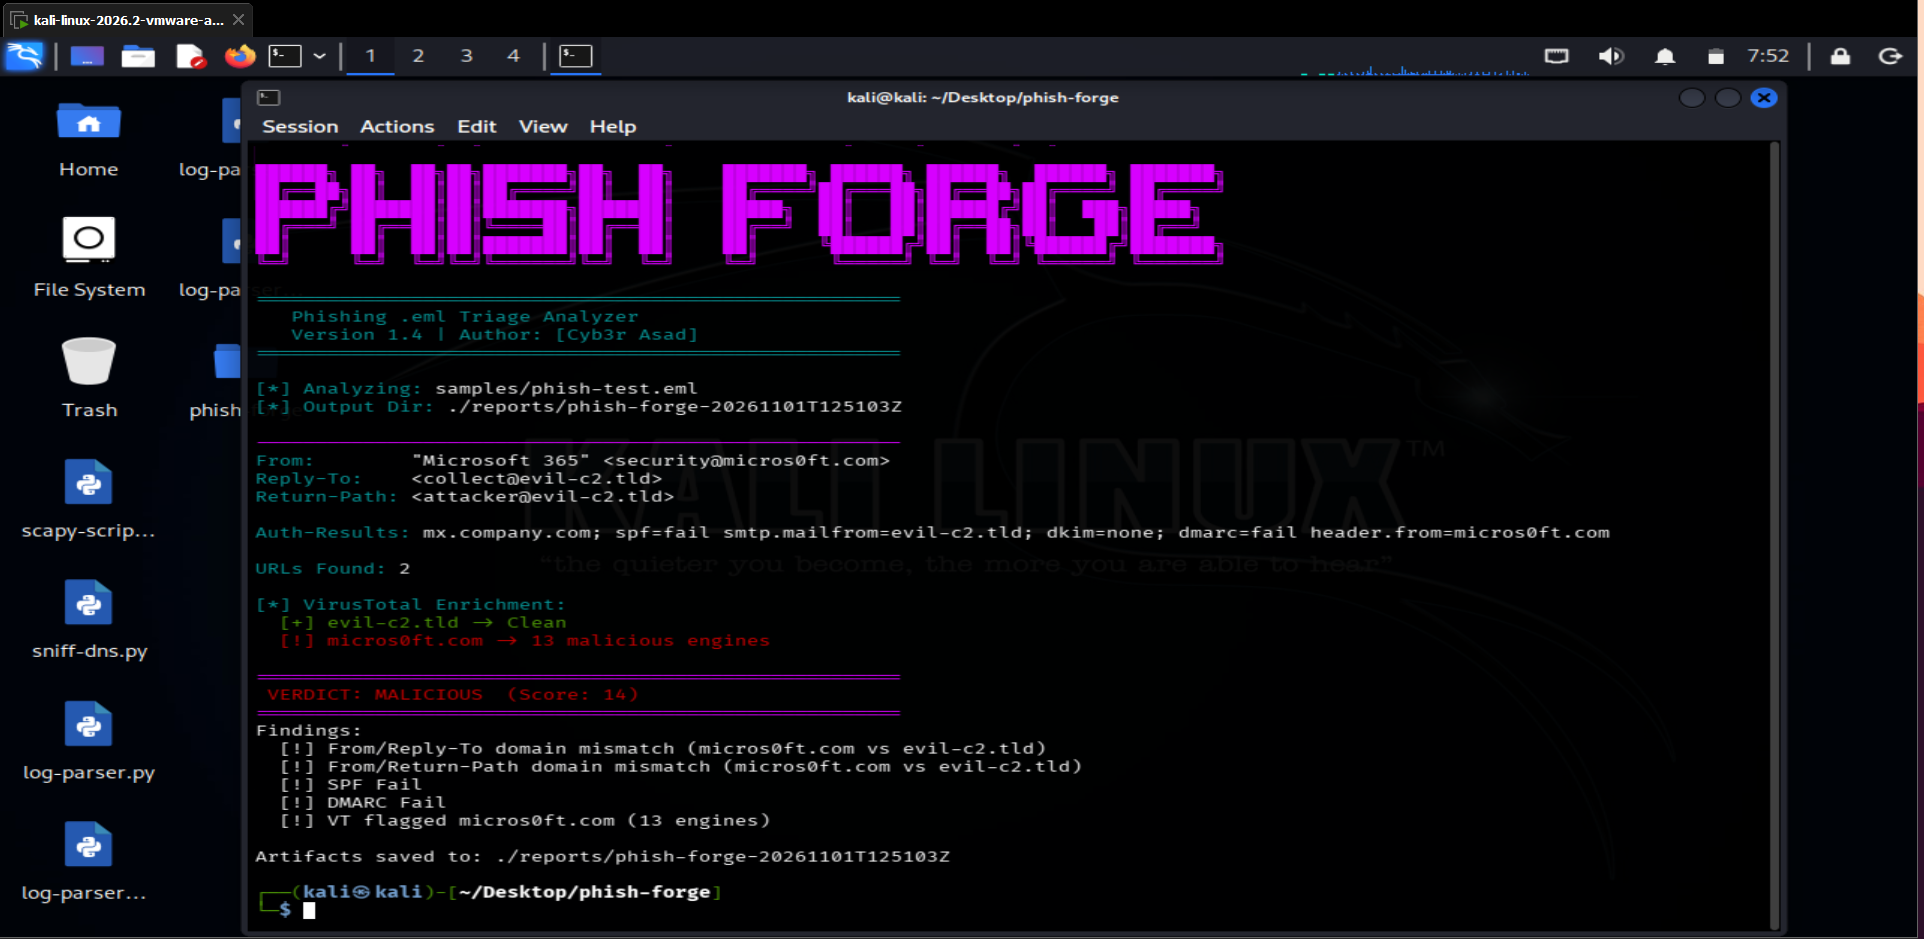
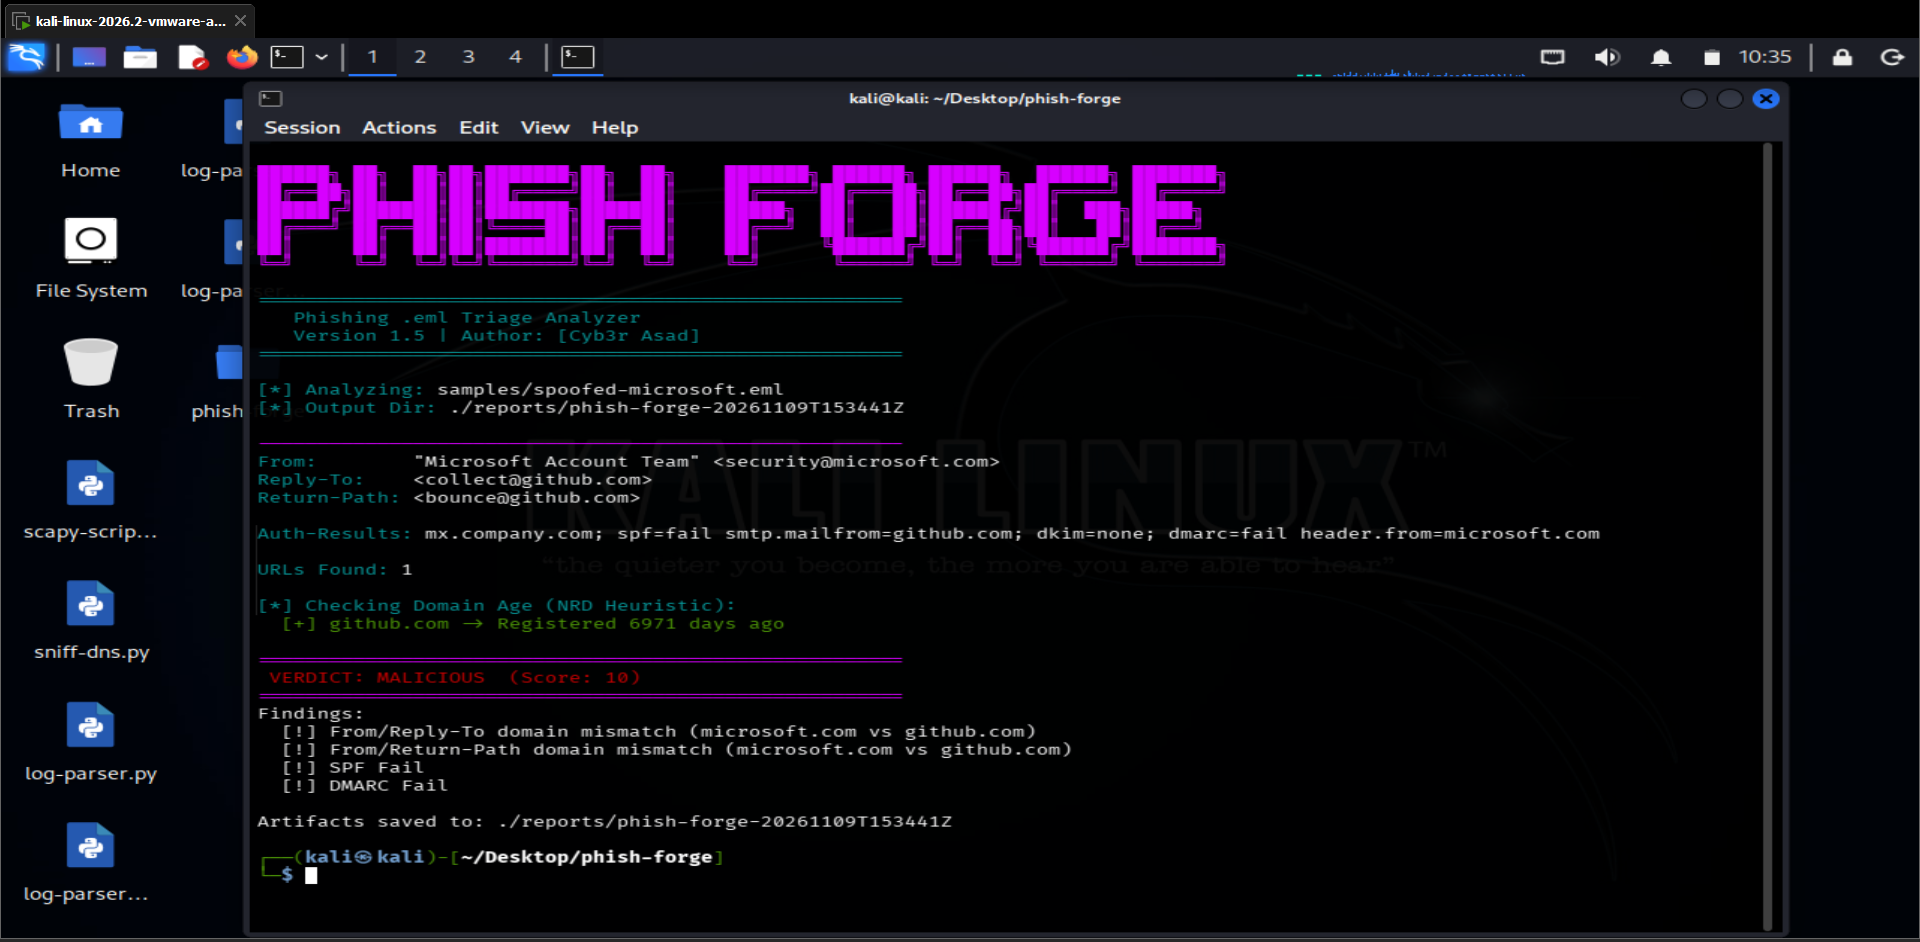
Push version 1.5 of Phish Forge

diff --git a/readme.md b/readme.md
@@ -15,7 +15,7 @@
 
 by **Asad (Cyb3r Asad)** — CS Student · Aspiring SOC Analyst · Blue Team
 
-![version](https://img.shields.io/badge/version-1.4-blueviolet)
+![version](https://img.shields.io/badge/version-1.5-blueviolet)
 ![language](https://img.shields.io/badge/language-bash-4EAA25?logo=gnubash&logoColor=white)
 ![language](https://img.shields.io/badge/language-python-3776AB?logo=python&logoColor=white)
 ![platform](https://img.shields.io/badge/platform-linux-557C94?logo=linux&logoColor=white)
@@ -23,7 +23,7 @@ by **Asad (Cyb3r Asad)** — CS Student · Aspiring SOC Analyst · Blue Team
 
 <br>
 
-![Phish Forge terminal output](docs/screenshot.PNG)
+![Phish Forge terminal output](docs/screenshot.png)
 
 </div>
 
@@ -35,12 +35,15 @@ Phishing remains one of the most common initial access vectors for attackers. Fo
 
 Phish Forge takes a raw `.eml` file and produces a standardized threat report in seconds, so analysts can spend their time on investigation, containment, and response instead of repetitive data gathering.
 
+Reputation lookups alone have a blind spot. VirusTotal often shows zero detections for domains registered only hours ago, and attackers use these Newly Registered Domains (NRDs) specifically to evade reputation-based tools. Phish Forge closes that gap with a domain age heuristic that penalizes freshly registered domains in the risk score.
+
 ## Key Capabilities
 
 | Capability | What it does |
 |---|---|
 | Header spoofing detection | Compares `From`, `Reply-To`, and `Return-Path` domains to catch impersonation and lookalike domains |
 | Email authentication | Parses `Authentication-Results` and flags SPF, DKIM, and DMARC failures |
+| NRD heuristic | Calculates domain age using the WhoisFreaks API with a free RDAP fallback. Domains registered in the last 30 days receive a heavy penalty in the risk score |
 | Payload extraction | Decodes MIME structures to extract obfuscated URLs and generates SHA256 hashes for attachments |
 | Threat intel enrichment | Queries the VirusTotal API for the reputation of extracted domains |
 | Scoring engine | Aggregates findings into a verdict: `MALICIOUS`, `SUSPICIOUS`, or `LIKELY CLEAN` |
@@ -65,13 +68,27 @@ Every run saves its artifacts to a timestamped folder under `./reports/`.
 
 > The sample email is synthetic. `evil-c2.tld` shows as clean on VirusTotal because it is a made-up domain.
 
+## How the Verdict Works
+
+Each finding adds to a cumulative score, and the total maps to a verdict.
+
+| Signal | Examples |
+|---|---|
+| Header mismatch | From vs Reply-To, From vs Return-Path |
+| Authentication failure | SPF fail, DKIM fail or none, DMARC fail |
+| Newly registered domain | Domain registered within the last 30 days (heavy penalty) |
+| Threat intel hit | Domain flagged by VirusTotal engines |
+
+The final score maps to `LIKELY CLEAN`, `SUSPICIOUS`, or `MALICIOUS`.
+
 ## Tech Stack
 
 | Component | Role |
 |---|---|
 | Bash | Orchestration, argument parsing, interactive terminal UI |
 | Python (`email` module) | Robust MIME parsing and decoding |
-| curl and jq | VirusTotal API requests and safe JSON handling |
+| curl and jq | VirusTotal and WhoisFreaks API requests and safe JSON handling |
+| WhoisFreaks API / RDAP | Domain registration data for the NRD age check, with RDAP as a free fallback |
 
 ## Installation
 
@@ -83,11 +100,14 @@ chmod +x phish-forge.sh
 
 **Requirements:** Bash 4+, Python 3, `curl`, `jq`, and a VirusTotal API key (a free key works, subject to rate limits).
 
-The API key is read from an environment variable and is never stored in the script:
+API keys are read from environment variables and are never stored in the script:
 
 ```bash
-export VT_API_KEY="your_api_key_here"
+export VT_API_KEY="your_virustotal_key_here"
+export WHOISFREAKS_API_KEY="your_whoisfreaks_key_here"   # optional
 ```
+
+The WhoisFreaks key is optional. Without it, domain age is looked up through RDAP, which needs no key.
 
 ## Usage
 
